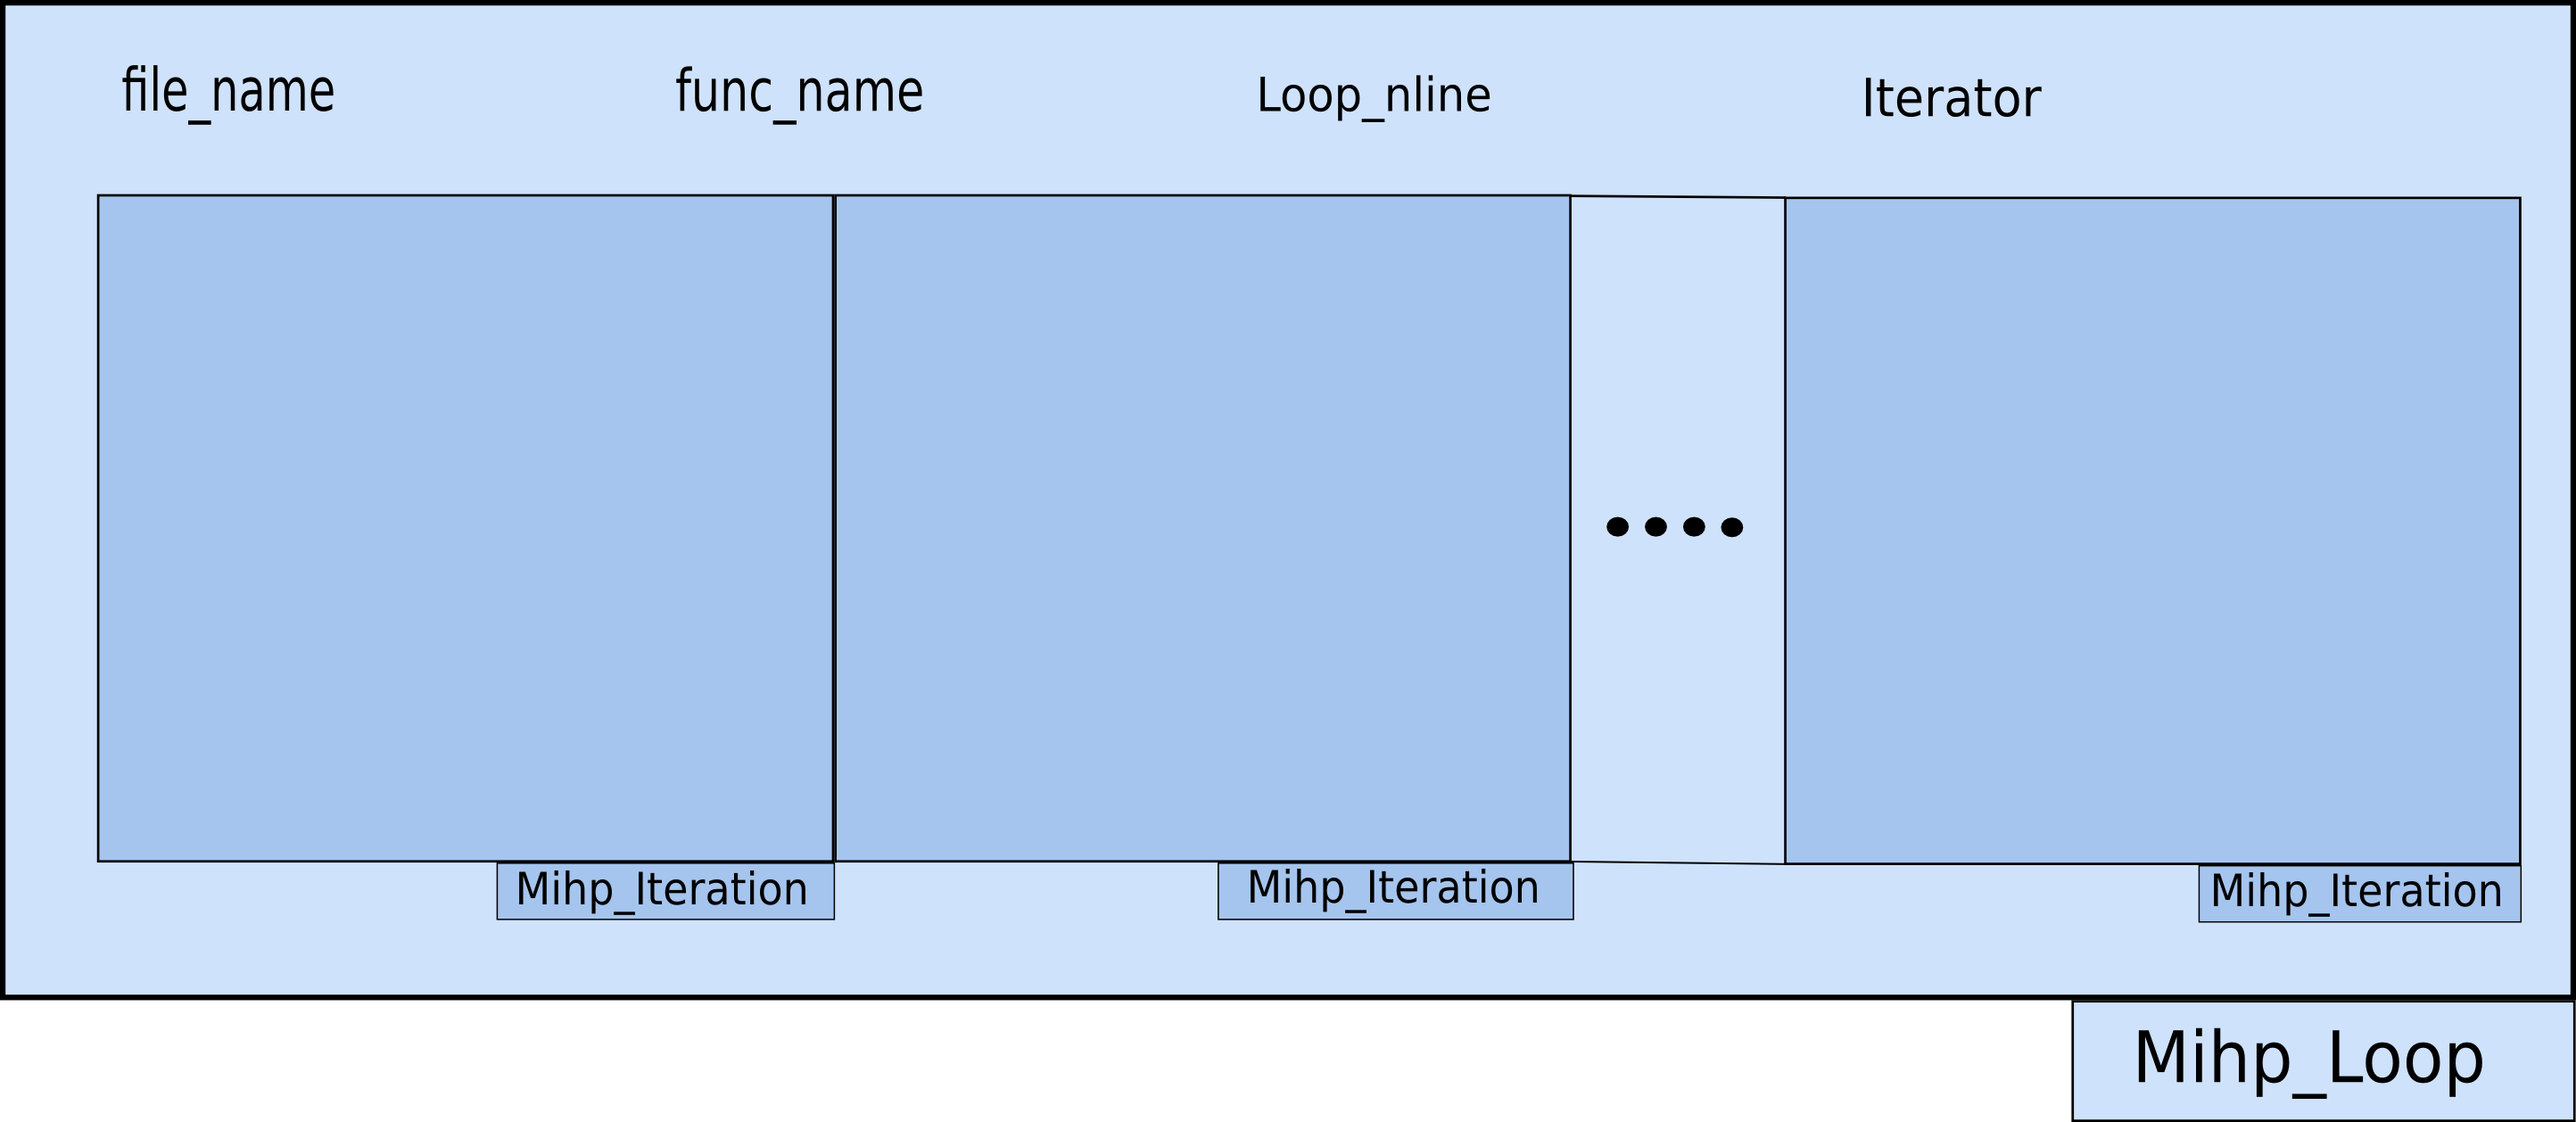
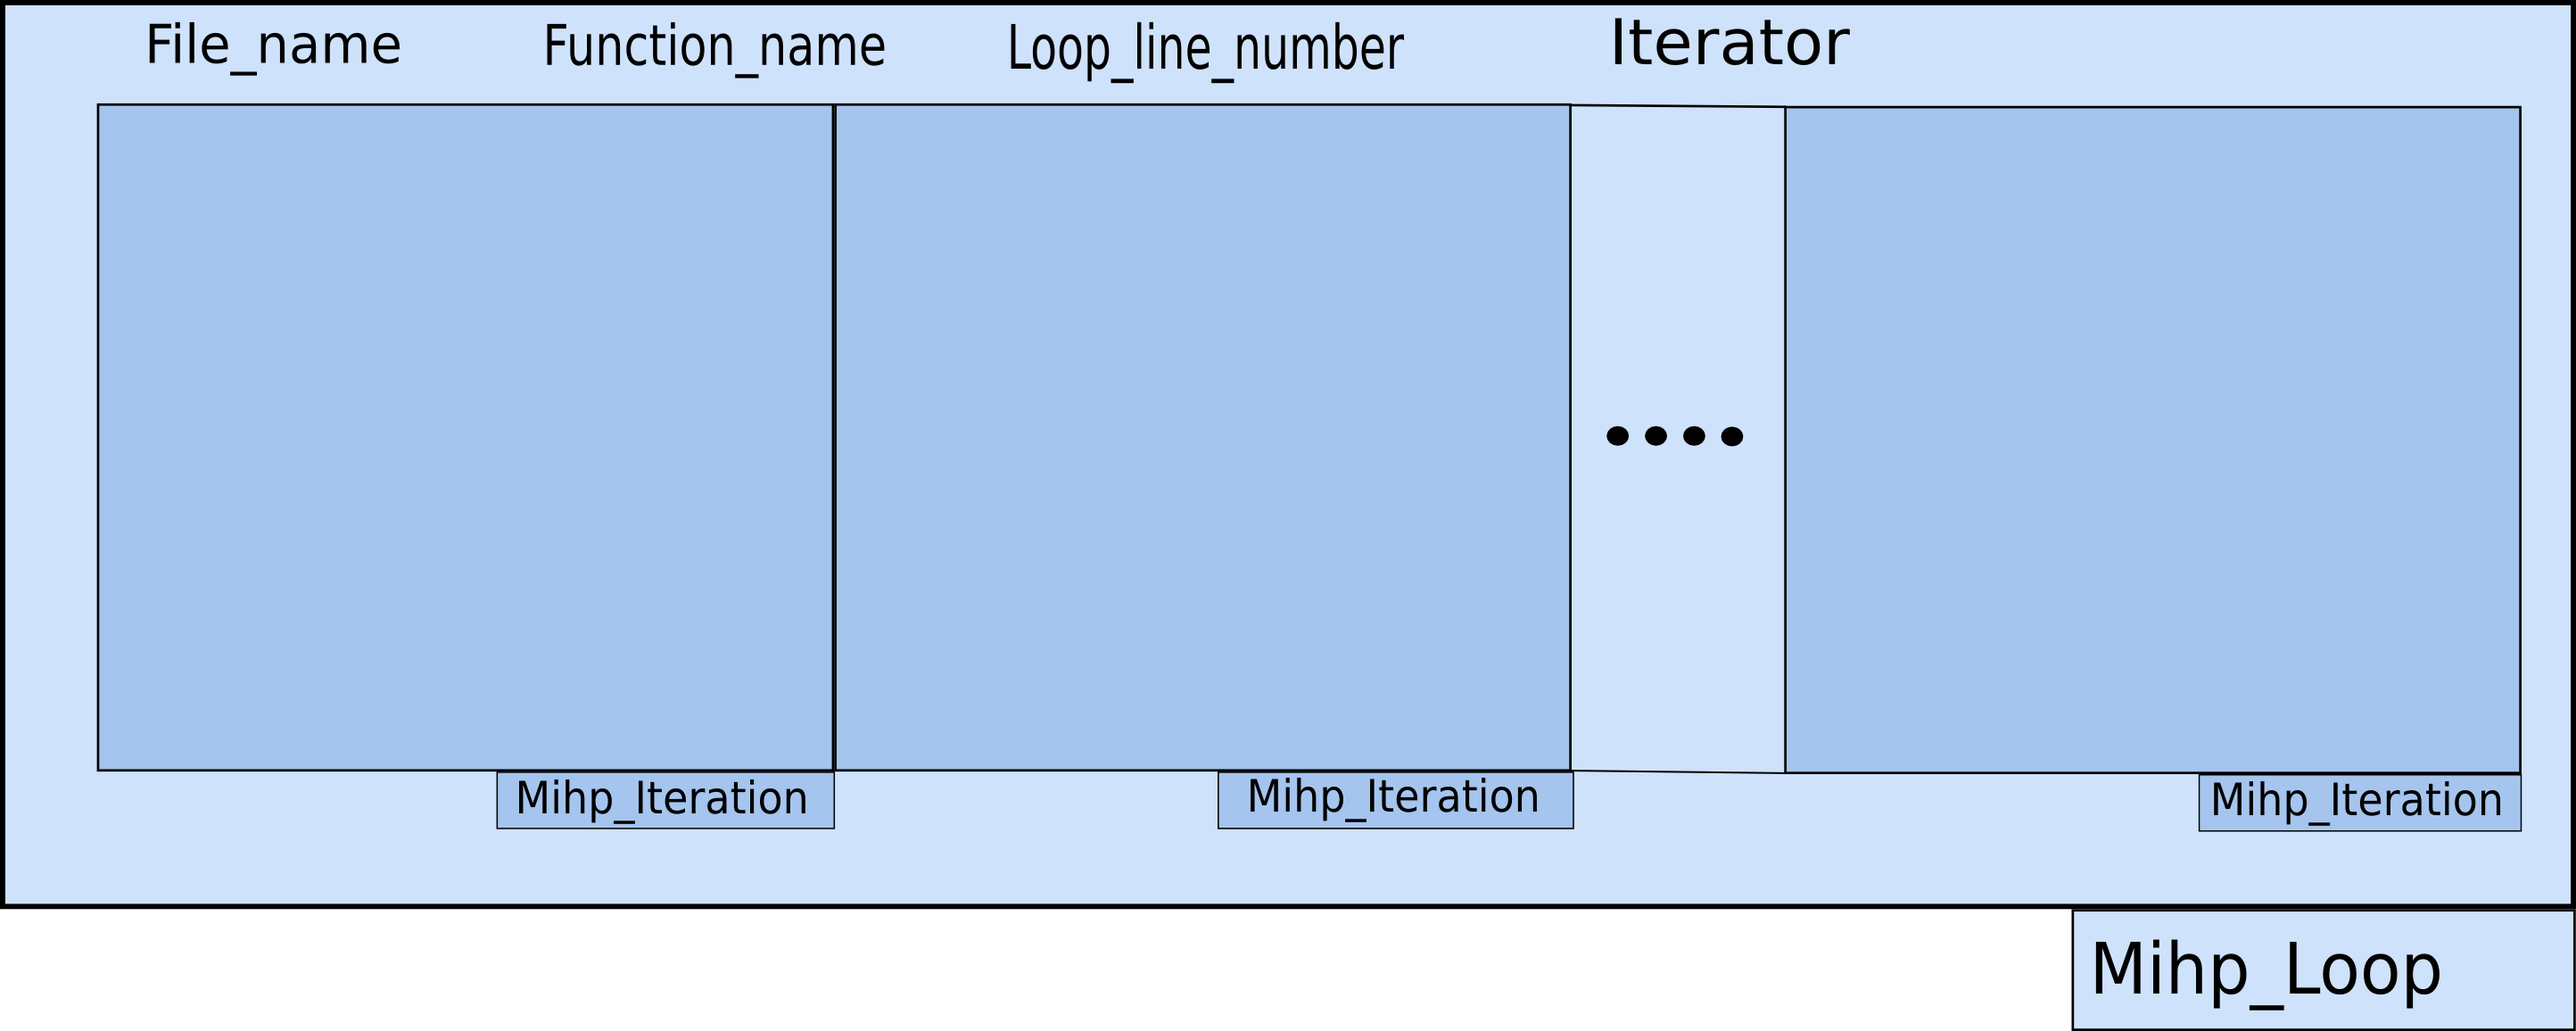
Petites modifs

diff --git a/Rapport/rapportProjetCPA.tex b/Rapport/rapportProjetCPA.tex
@@ -98,8 +98,9 @@ Le début de la boucle est précisé par la fonction
 Dans un premier temps nous avons pris en compte toutes les opérandes non constantes, puisque les opérandes constantes ne peuvent être que lues (ce qui ne pose aucun problème pour la vectorisation). Comme gimple converti toutes les expressions en diadiques ou en triadique, il créé des variables temporaires de la forme \textbf{D.XXXX}, les adresses de ces variables sont généralement \textbf{0x1}, \textbf{0x2}, \textbf{0x3}, ect. Nous avons donc fait des tests pour vérifier que cela ne posait pas de problème avec notre librairie d'analyse (qui sera détaillée dans la section suivante).
 
 \section{\color{blue}La librairie d'analyse}
+La librarie d'analyse effectue l'analyse des accès mémoire du programme et va indiquer si la boucle est vectorisable ou non, elle prend en entrée les differentes adresses mémoire des variables manipulées durant chaque itération de la boucle ainsi que le type de manipulation (lecture ou écriture) et compare dans un premier temps les adresses accédées entre une itération et ses suivantes ceci pour verifier si il y a des recouvrements entre les adresses mémoire (voir partie 4.2). Si recouvrement il y a, on teste le types de recouvrement en verifiant les types d'accés qui ont été efféctués sur ses adresses (voir tableau XX).
 
-La librarie d'analyse effectue l'analyse des accès mémoire du programme et va indiquer si la boucle est vectorisable ou non.
+Dans l'implémentation de notre librarie nous avons définie 3 classe: Mihp\_Adress, Mihp\_Iteration, Mihp\_Loop pour recevoir les données envoyées grace au plugin, et pour permettre de faire l'analyse, voici ci-dessous un diagramme de nos classes: 	
 
 \section{\color{blue}Les tests}
 
